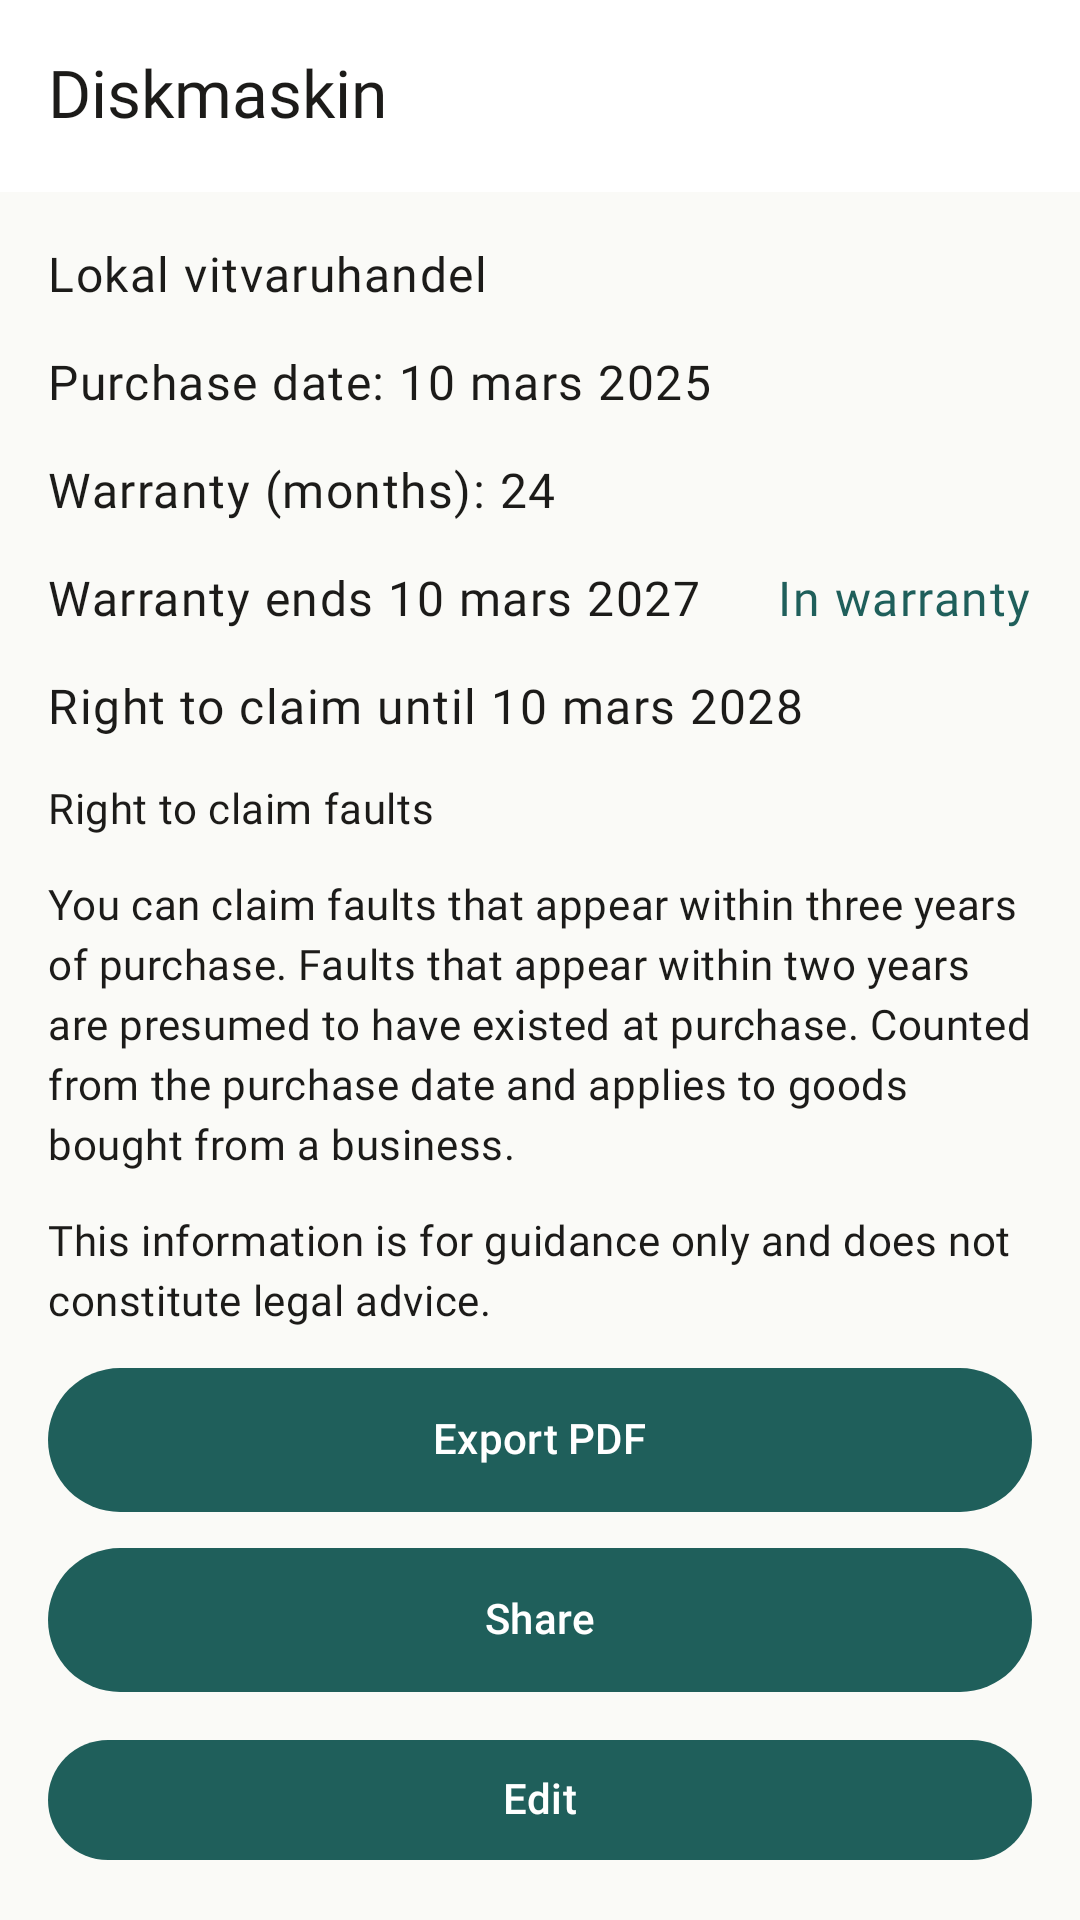
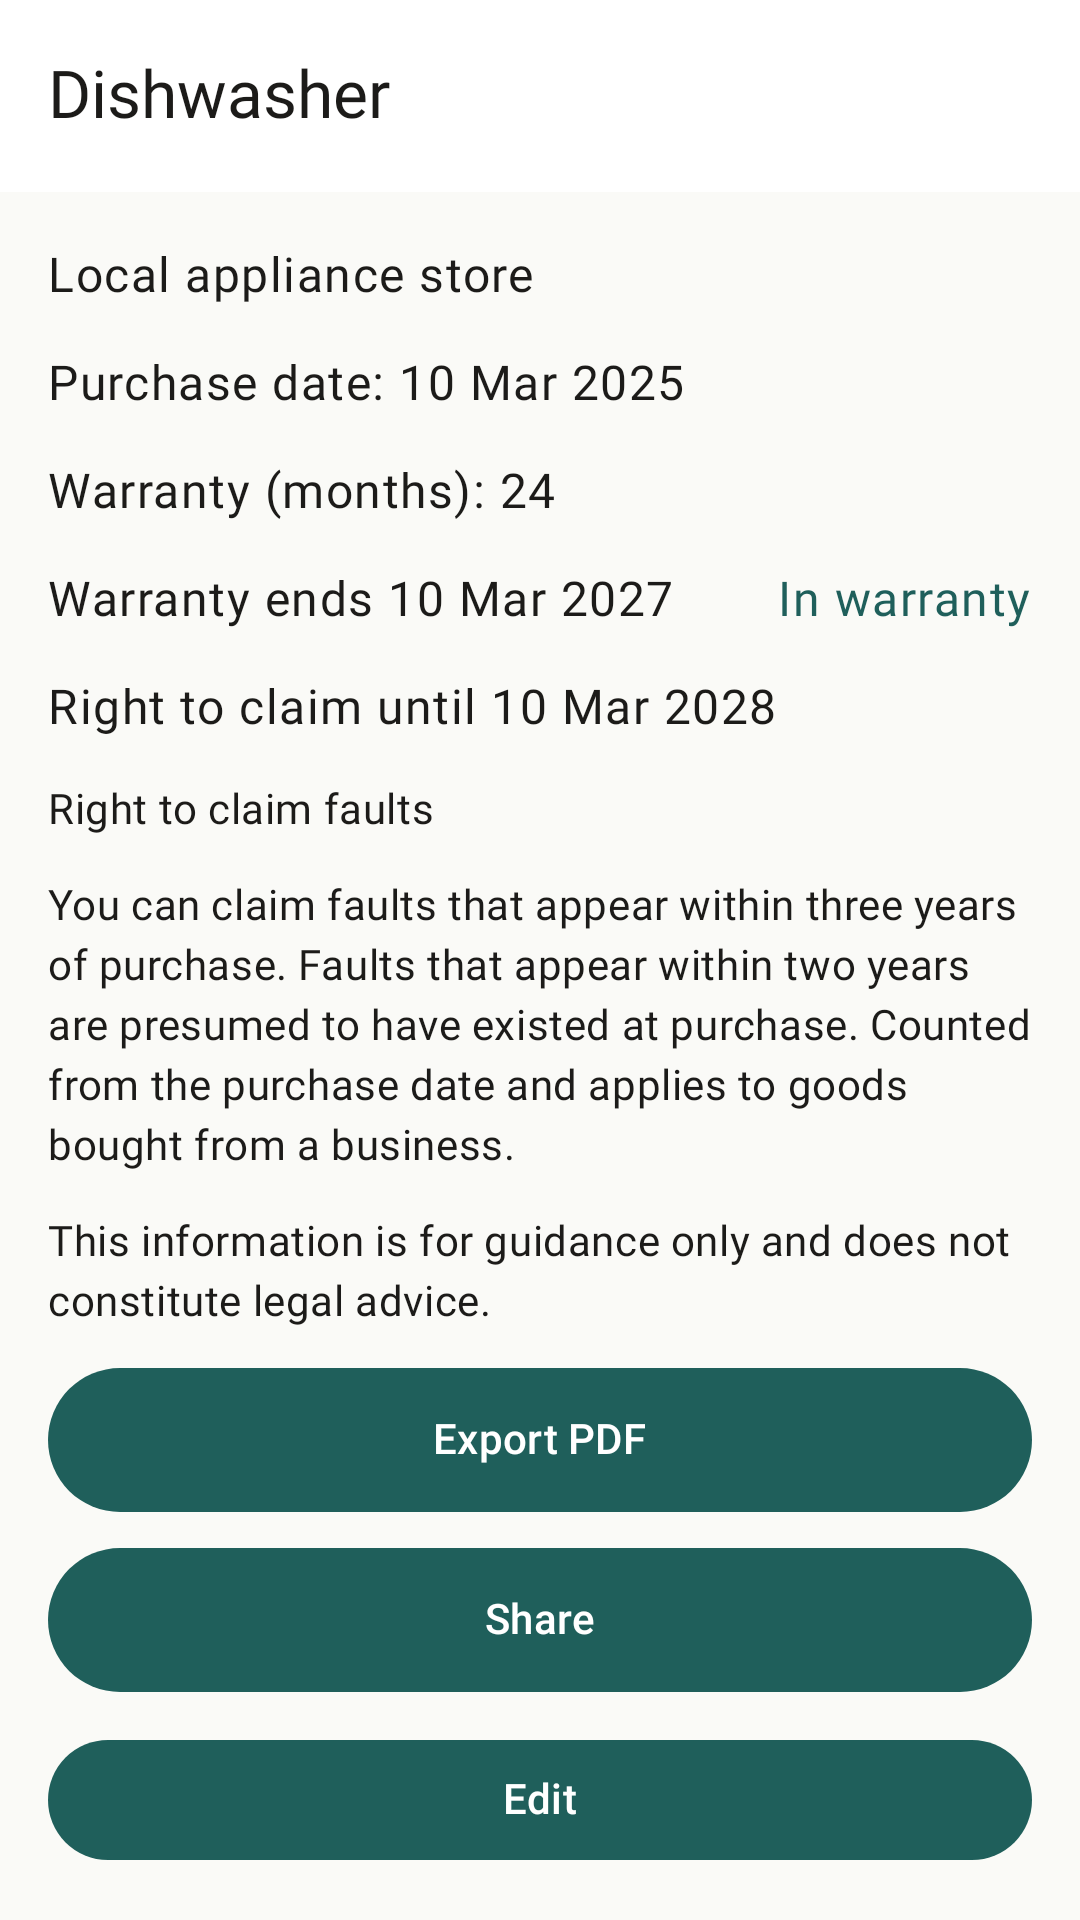
granskning: godkänd 2026-10-12-36-butik-exempeldata-skarmbilder
Språkspecifik exempeldata godkänd; Cursor spelade in engelska Roborazzi-PNG:er
som saknades och städade oanvända importer.

diff --git a/garantivalvet/src/test/kotlin/se/tmconnect/garantivalvet/butik/ButikSkarmbilderTest.kt b/garantivalvet/src/test/kotlin/se/tmconnect/garantivalvet/butik/ButikSkarmbilderTest.kt
@@ -1,7 +1,6 @@
 package se.tmconnect.garantivalvet.butik
 
 import android.app.Application
-import android.content.res.Configuration
 import androidx.activity.ComponentActivity
 import androidx.activity.compose.setContent
 import androidx.compose.foundation.Image
@@ -25,7 +24,6 @@ import com.github.takahirom.roborazzi.captureRoboImage
 import com.github.takahirom.roborazzi.captureScreenRoboImage
 import java.io.File
 import java.time.LocalDate
-import java.util.Locale
 import org.junit.Assert.assertEquals
 import org.junit.Assert.assertFalse
 import org.junit.Before

diff --git a/granskning/2026-10-12-36-butik-exempeldata-skarmbilder.md b/granskning/2026-10-12-36-butik-exempeldata-skarmbilder.md
@@ -1,0 +1,19 @@
+beslut: godkänd
+granskare: cursor
+datum: 2026-10-12
+
+## Kontrollerat
+- Endast `ButikSkarmbilderTest.kt` och Roborazzi-PNG:er under `garantivalvet/butik/skarmbilder/en/` ändrade; ingen appkod, inga filer i repots rot; inga `butik/sv/*.txt`, `en/*.txt` eller `data-safety.md`.
+- `exempelLista()`, `exempelDetalj()` och `exempelFormular()` är språkspecifika; engelska texter enligt uppgiften; svenska oförändrade; `formulär()` hämtar `initialVad`, `initialVar`, garanti och köpdatum från `exempelFormular()`.
+- JUnit 4 (`org.junit`); befintliga Roborazzi-tester och `skarmQualifiersLaddarRattSprak` jämför mot förväntade strängar/resurser.
+- `gradle testDebugUnitTest` grönt lokalt (hela portföljen).
+- Inga nya beroenden, behörigheter eller nätverk; inga hårdkodade UI-strängar i appkod (testdata i testklasser är avsedd).
+
+## Rättat av Cursor
+- Körde `recordRoborazziDebug` och committade omgenererade engelska skärmbilder (`en/01–04`) som saknades i PR:en.
+- Tog bort oanvända importer (`Configuration`, `Locale`) efter omställning till enbart `RuntimeEnvironment.setQualifiers`.
+
+## Vid underkänd: försök 2
+
+## Frågor till Claude
+- inga

diff --git a/uppgifter/klar/2026-10-12-36-butik-exempeldata-skarmbilder.md b/uppgifter/klar/2026-10-12-36-butik-exempeldata-skarmbilder.md
@@ -43,3 +43,5 @@ gradle :garantivalvet:testDebugUnitTest --tests "*ButikSkarmbilder*"
 - Ändra appkod utöver testfilen.
 - Ändra `garantivalvet/butik/sv/*.txt`, `en/*.txt` eller `data-safety.md`.
 - Lägga till beroenden.
+
+utfall: godkänd 2026-10-12 (Roborazzi en-skärmbilder, oanvända importer)
